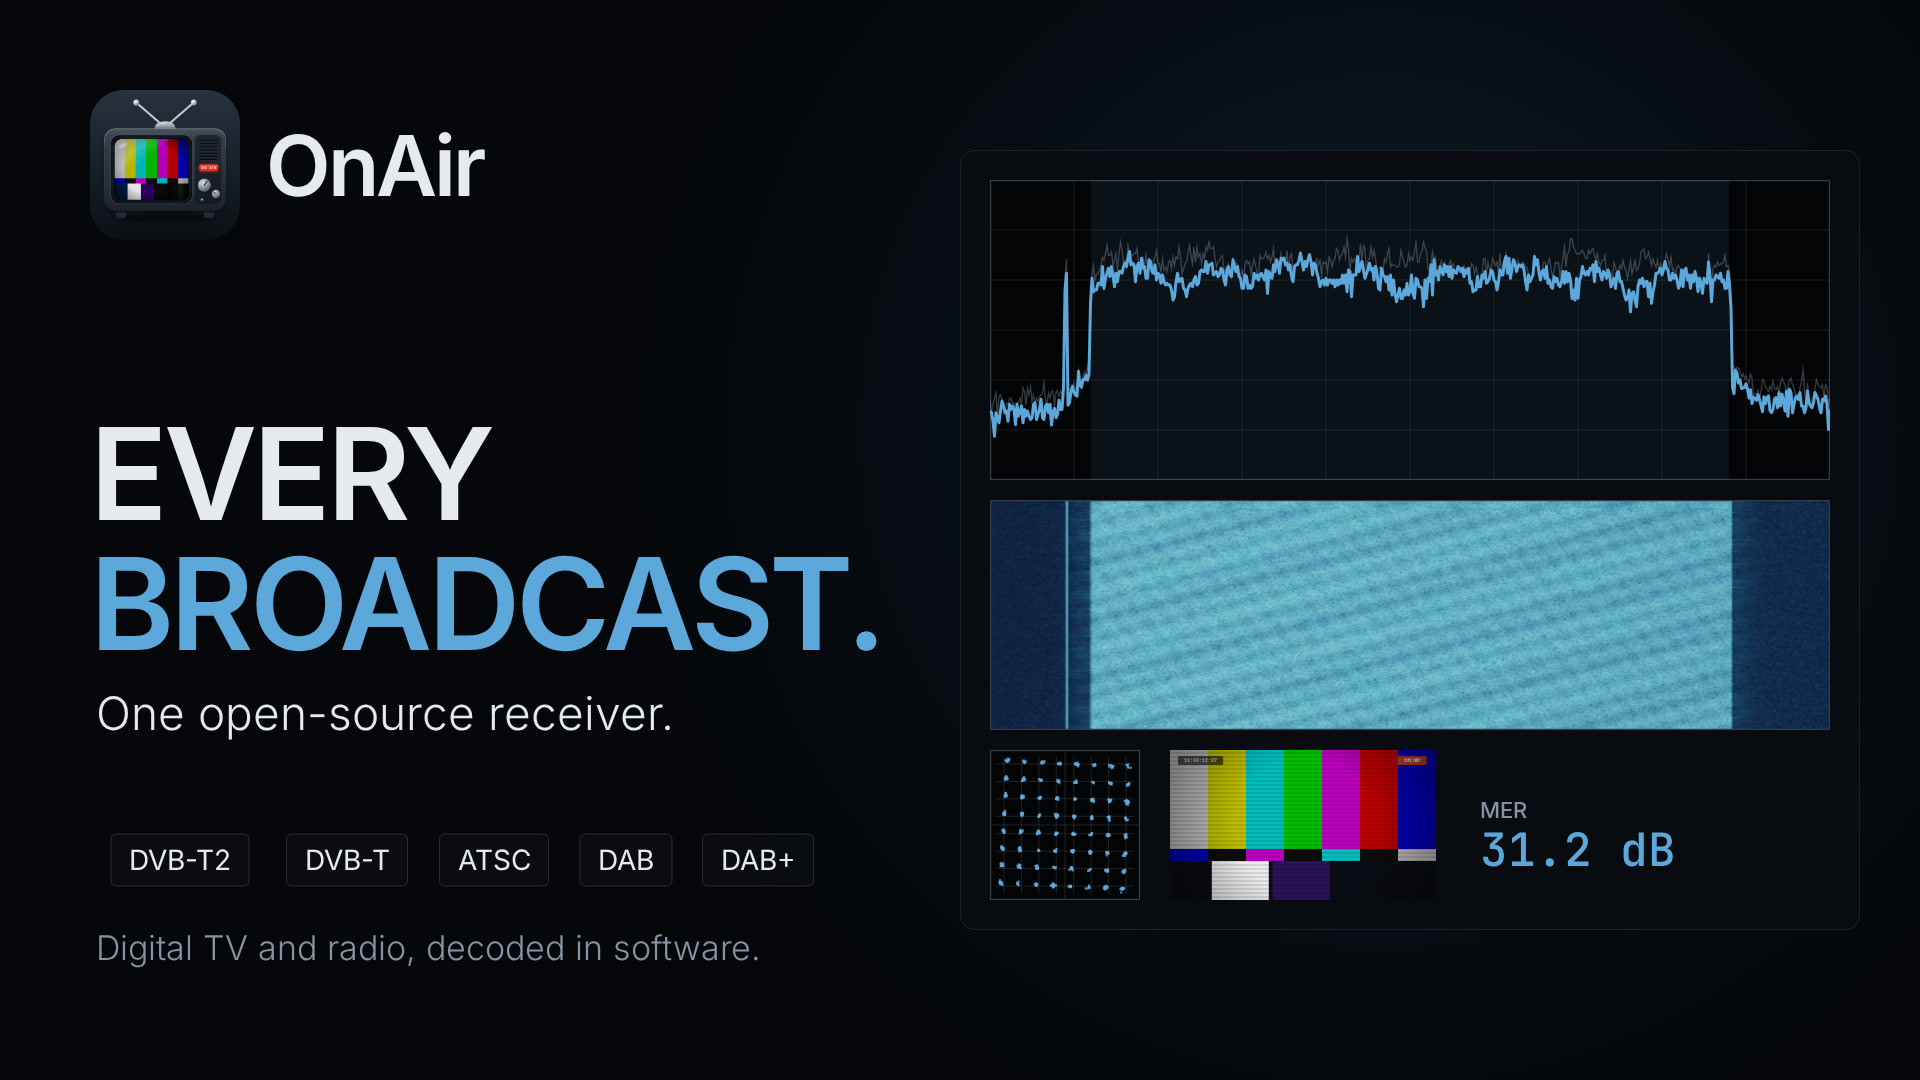
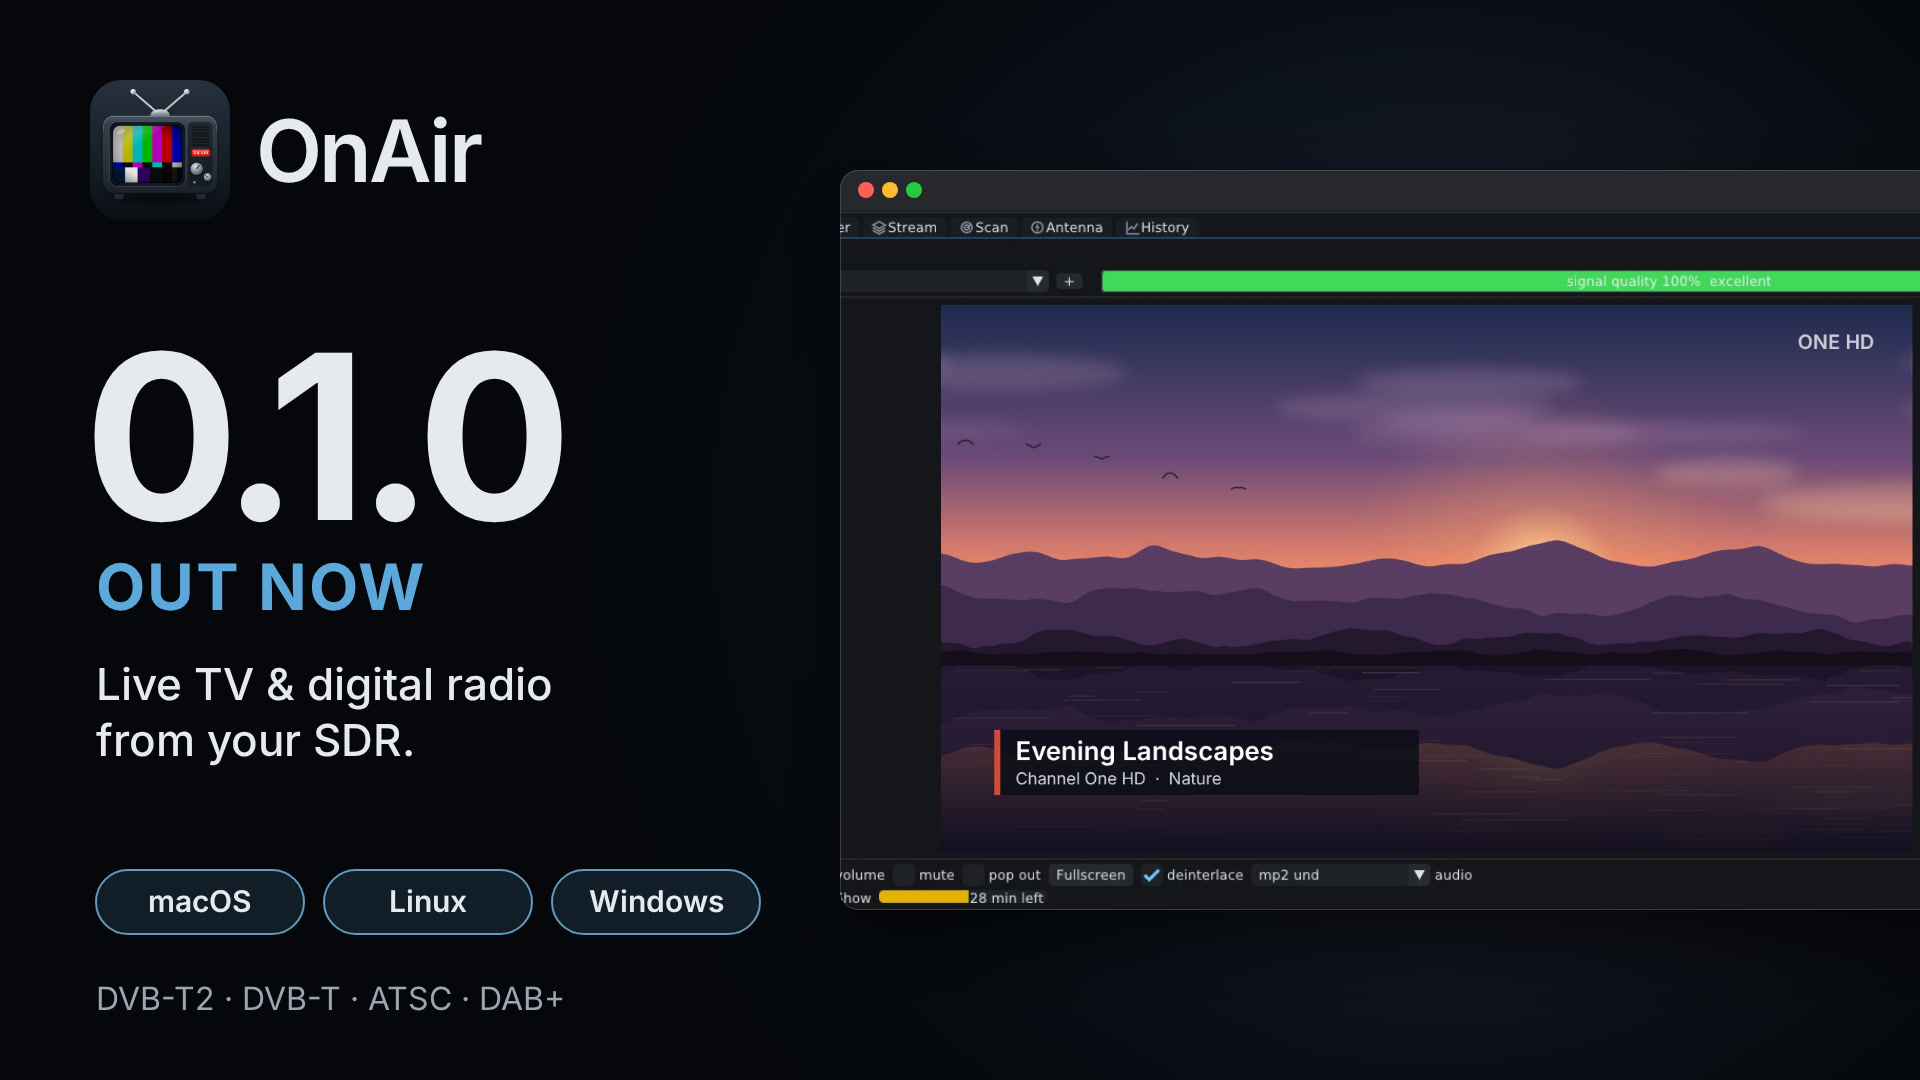
Thumbnail for the 0.1.0 release
Claude-Session: https://claude.ai/code/session_01C27Y1zJaBEiFwJ1RTXnXDx

diff --git a/promo/thumb.html b/promo/thumb.html
@@ -1,22 +1,25 @@
 <!doctype html><html><head><meta charset="utf-8"><link rel="stylesheet" href="fonts.css"><style>html,body{margin:0;background:#000}canvas{display:block}</style></head><body><canvas id="c" width="1920" height="1080"></canvas>
-<script src="common_head.js"></script><script src="signals.js"></script><script src="map_data.js"></script><script src="scenes.js"></script>
+<script src="common_head.js"></script><script src="signals.js"></script><script src="scenes.js"></script>
 <script>
-window.drawThumb=async()=>{ await window.ready; const c=ctx; CURT=50;
+// YouTube thumbnail for the 0.1.0 release: the real app (live TV tab) in a window, big version headline
+const ld=s=>new Promise(r=>{const i=new Image(); i.onload=()=>r(i); i.src=s;});
+window.drawThumb=async()=>{ await window.ready; const c=ctx;
+  const app=await ld('file:///tmp/clips/Player/f_00200.jpg'), prog=await ld('file:///tmp/progf/p_0120.jpg');
   c.fillStyle='#05070a'; c.fillRect(0,0,W,H);
-  const g=c.createRadialGradient(1380,430,0,1380,430,900); g.addColorStop(0,'rgba(40,100,150,.30)'); g.addColorStop(1,'rgba(0,0,0,0)'); c.fillStyle=g; c.fillRect(0,0,W,H);
-  // right: instrument panel
-  const px=960,py=150,pw=900,ph=780; panel(c,px,py,pw,ph,{r:14,fill:'#080c10'});
-  const sg=[{dat:'T',u:.5,w:.38,k:1}];
-  spectrum(c,px+30,py+30,pw-60,300,12.3,sg,{n:560,lw:3,grid:true}); waterfall(c,px+30,py+350,pw-60,230,12.3,sg); c.strokeStyle=PAL.border; c.lineWidth=1.2; c.strokeRect(px+30.6,py+350.6,pw-61.2,228.8);
-  constel(c,px+30,py+600,150,64,.045,12.3,{n:700,dot:2.2});
-  tvPicture(c,px+210,py+600,266,150,12.3,{noLower:true});
-  txt(c,'MER',px+520,py+668,{size:22,col:C.dim}); txt(c,'31.2 dB',px+520,py+716,{size:46,w:500,mono:true,col:PAL.accent});
-  [['DVB-T2'],['DAB+']].forEach(()=>{});
+  const g=c.createRadialGradient(1400,520,0,1400,520,1000); g.addColorStop(0,'rgba(60,110,170,.35)'); g.addColorStop(1,'rgba(0,0,0,0)'); c.fillStyle=g; c.fillRect(0,0,W,H);
+  const g2=c.createRadialGradient(1500,560,0,1500,560,700); g2.addColorStop(0,'rgba(200,120,150,.18)'); g2.addColorStop(1,'rgba(0,0,0,0)'); c.fillStyle=g2; c.fillRect(0,0,W,H);
+  // app window (real capture), cropped to the TV view, with the programme drawn in
+  const x=840,y=170,w=1160,h=700, sx=230, sy=110, sw=1100, sh=sw*h/w;
+  c.save(); c.shadowColor='rgba(0,0,0,.7)'; c.shadowBlur=80; c.shadowOffsetY=30; rr(c,x,y,w,h+40,18); c.fillStyle='#141619'; c.fill(); c.restore();
+  c.save(); rr(c,x,y,w,h+40,18); c.clip(); c.fillStyle='#26282c'; c.fillRect(x,y,w,40); ['#ff5f57','#febc2e','#28c840'].forEach((cl,i)=>{ c.fillStyle=cl; c.beginPath(); c.arc(x+26+i*24,y+20,8,0,7); c.fill(); });
+  const s=w/sw; c.drawImage(app,sx,sy,sw,sh,x,y+40,w,h); c.drawImage(prog,x+(RECT_TV[0]-sx)*s,y+40+(RECT_TV[1]-sy)*s,RECT_TV[2]*s,RECT_TV[3]*s); c.restore();
+  c.save(); rr(c,x+.5,y+.5,w-1,h+39,18); c.strokeStyle='rgba(255,255,255,.16)'; c.stroke(); c.restore();
   // left: headline
-  c.drawImage(logo,90,90,150,150);
-  txt(c,'OnAir',266,196,{size:84,w:600,ls:-3});
-  txt(c,'EVERY',90,520,{size:128,w:600,ls:-4}); txt(c,'BROADCAST.',90,650,{size:128,w:600,ls:-4,col:PAL.accent});
-  txt(c,'One open-source receiver.',96,730,{size:46,w:300,col:C.ink});
-  const ps=['DVB-T2','DVB-T','ATSC','DAB','DAB+']; const ws=[168,142,128,112,128]; let x=96; ps.forEach((s,i)=>{ chip(c,s,x+ws[i]/2,860,1,{size:28,pad:36}); x+=ws[i]+12; }); txt(c,'Digital TV and radio, decoded in software.',96,960,{size:34,w:300,col:C.dim});
+  c.drawImage(logo,90,80,140,140); txt(c,'OnAir',256,182,{size:86,w:600,ls:-3});
+  txt(c,'0.1.0',84,520,{size:230,w:700,ls:-10});
+  txt(c,'OUT NOW',96,610,{size:64,w:700,ls:2,col:'#5ca8db'});
+  txt(c,'Live TV & digital radio',96,700,{size:44,w:500}); txt(c,'from your SDR.',96,756,{size:44,w:500});
+  ['macOS','Linux','Windows'].forEach((p,i)=>{ const px=96+i*228; rr(c,px,870,208,64,32); c.fillStyle='rgba(92,168,219,.14)'; c.fill(); c.strokeStyle='rgba(120,190,235,.8)'; c.lineWidth=2; c.stroke(); txt(c,p,px+104,912,{size:30,w:600,al:'center'}); });
+  txt(c,'DVB-T2 · DVB-T · ATSC · DAB+',96,1010,{size:32,w:400,col:'#9aa6b2'});
   return true; };
 </script></body></html>
